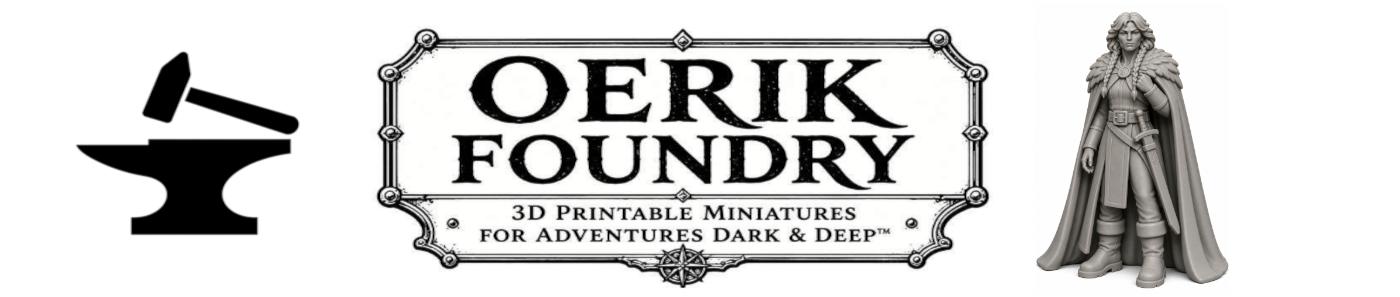
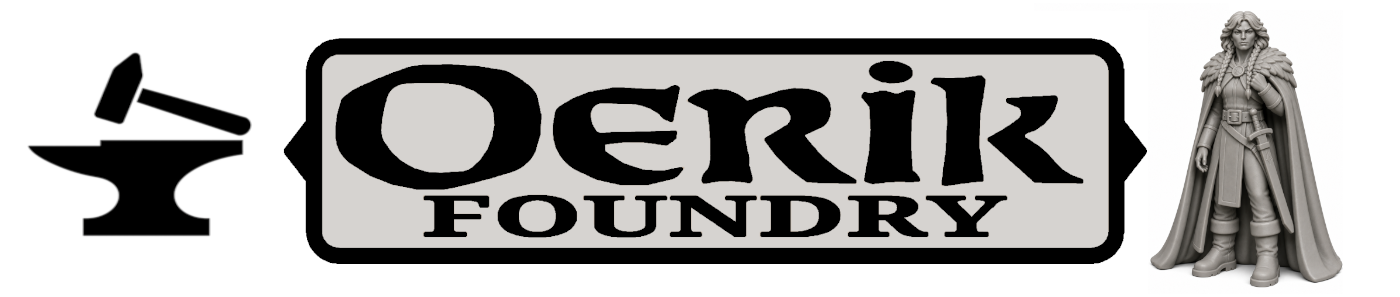
Update Oerik website

diff --git a/themes/oerik/layouts/_default/foundry.html b/themes/oerik/layouts/_default/foundry.html
@@ -1,0 +1,39 @@
+{{ define "main" }}
+
+<div class="standard-page">
+  <article class="standard-page-content">
+
+    <div class="foundry-under-construction"
+         style="max-width:760px; margin:10px auto 30px; text-align:center;">
+
+      <img
+        src="{{ "images/foundry/oerik-foundry-logo.png" | relURL }}"
+        alt="Oerik Foundry"
+        style="display:block; width:100%; max-width:620px; height:auto; margin:0 auto 28px;"
+      >
+
+      <h1 style="margin-bottom:14px;">Oerik Foundry</h1>
+
+      <h2 style="margin-top:0; border-bottom:0; padding-bottom:0;">
+        Under Construction
+      </h2>
+
+      <p>
+        This section of The Oerik Dispatch is still being prepared.
+      </p>
+
+      <p>
+        Check back soon for printable miniatures, 3D printing resources,
+        terrain projects, and new releases from Oerik Foundry.
+      </p>
+
+      <p style="margin-top:32px;">
+        <a class="read-more" href="{{ "" | relURL }}">← Return to The Oerik Dispatch</a>
+      </p>
+
+    </div>
+
+  </article>
+</div>
+
+{{ end }}

diff --git a/themes/oerik/layouts/foundry/section.html b/themes/oerik/layouts/foundry/section.html
@@ -1,0 +1,39 @@
+{{ define "main" }}
+
+<div class="standard-page">
+  <article class="standard-page-content">
+
+    <div class="foundry-under-construction"
+         style="max-width:760px; margin:10px auto 30px; text-align:center;">
+
+      <img
+        src="{{ "images/foundry/oerik-foundry-logo.png" | relURL }}"
+        alt="Oerik Foundry"
+        style="display:block; width:100%; max-width:620px; height:auto; margin:0 auto 28px;"
+      >
+
+      <h1 style="margin-bottom:14px;">Oerik Foundry</h1>
+
+      <h2 style="margin-top:0; border-bottom:0; padding-bottom:0;">
+        Under Construction
+      </h2>
+
+      <p>
+        This section of The Oerik Dispatch is still being prepared.
+      </p>
+
+      <p>
+        Check back soon for printable miniatures, 3D printing resources,
+        terrain projects, and new releases from Oerik Foundry.
+      </p>
+
+      <p style="margin-top:32px;">
+        <a class="read-more" href="{{ "" | relURL }}">← Return to The Oerik Dispatch</a>
+      </p>
+
+    </div>
+
+  </article>
+</div>
+
+{{ end }}

diff --git a/themes/oerik/layouts/_default/greyhawk.html b/themes/oerik/layouts/_default/greyhawk.html
@@ -1,0 +1,39 @@
+{{ define "main" }}
+
+<div class="standard-page">
+  <article class="standard-page-content">
+
+    <div class="greyhawk-under-construction"
+         style="max-width:760px; margin:10px auto 30px; text-align:center;">
+
+      <img
+        src="{{ "images/greyhawk/WorldofGreyhawk.png" | relURL }}"
+        alt="World of Greyhawk Fantasy Setting"
+        style="display:block; width:100%; max-width:700px; height:auto; margin:0 auto 28px;"
+      >
+
+      <h1 style="margin-bottom:14px;">Greyhawk</h1>
+
+      <h2 style="margin-top:0; border-bottom:0; padding-bottom:0;">
+        Under Construction
+      </h2>
+
+      <p>
+        This section of The Oerik Dispatch is still being prepared.
+      </p>
+
+      <p>
+        Check back soon for history, lore, places, peoples, and resources
+        from the World of Greyhawk.
+      </p>
+
+      <p style="margin-top:32px;">
+        <a class="read-more" href="{{ "" | relURL }}">← Return to The Oerik Dispatch</a>
+      </p>
+
+    </div>
+
+  </article>
+</div>
+
+{{ end }}

diff --git a/themes/oerik/layouts/_default/game-rules.html b/themes/oerik/layouts/_default/game-rules.html
@@ -1,0 +1,39 @@
+{{ define "main" }}
+
+<div class="standard-page">
+  <article class="standard-page-content">
+
+    <div class="greyhawk-under-construction"
+         style="max-width:760px; margin:10px auto 30px; text-align:center;">
+
+      <img
+        src="{{ "images/game-rules/ADAD-logo.png" | relURL }}"
+        alt="Adventure Dark and Deep"
+        style="display:block; width:100%; max-width:700px; height:auto; margin:0 auto 28px;"
+      >
+
+      <h1 style="margin-bottom:14px;">Adventure Dark and Deep</h1>
+
+      <h2 style="margin-top:0; border-bottom:0; padding-bottom:0;">
+        Under Construction
+      </h2>
+
+      <p>
+        This section of The Oerik Dispatch is still being prepared.
+      </p>
+
+      <p>
+        Check back soon for information on Adventure Dark and Deep OSR rules
+		by Joseph Bloch.
+      </p>
+
+      <p style="margin-top:32px;">
+        <a class="read-more" href="{{ "" | relURL }}">← Return to The Oerik Dispatch</a>
+      </p>
+
+    </div>
+
+  </article>
+</div>
+
+{{ end }}

diff --git a/content/oerik-under-construction-pages/oerik-under-construction-pages/themes/oerik/layouts/_default/under-construction.html b/content/oerik-under-construction-pages/oerik-under-construction-pages/themes/oerik/layouts/_default/under-construction.html
@@ -1,0 +1,38 @@
+{{ define "main" }}
+
+<div class="standard-page">
+  <article class="standard-page-content">
+
+    <div class="under-construction-page"
+         style="max-width:720px; margin:20px auto 40px; text-align:center;">
+
+      <div aria-hidden="true"
+           style="font-family:Georgia, 'Times New Roman', serif; font-size:58px; line-height:1; margin-bottom:18px;">
+        ⚒
+      </div>
+
+      <h1 style="margin-bottom:18px;">{{ .Title }}</h1>
+
+      <h2 style="margin-top:0; border-bottom:0; padding-bottom:0;">
+        Under Construction
+      </h2>
+
+      <p>
+        This section of The Oerik Dispatch is still being prepared.
+      </p>
+
+      <p>
+        Check back soon for new material from the World of Greyhawk,
+        OERIK Magazine, and Oerik Foundry.
+      </p>
+
+      <p style="margin-top:32px;">
+        <a class="read-more" href="{{ "" | relURL }}">← Return to The Oerik Dispatch</a>
+      </p>
+
+    </div>
+
+  </article>
+</div>
+
+{{ end }}

diff --git a/themes/oerik/layouts/_default/under-construction.html b/themes/oerik/layouts/_default/under-construction.html
@@ -1,0 +1,38 @@
+{{ define "main" }}
+
+<div class="standard-page">
+  <article class="standard-page-content">
+
+    <div class="under-construction-page"
+         style="max-width:720px; margin:20px auto 40px; text-align:center;">
+
+      <div aria-hidden="true"
+           style="font-family:Georgia, 'Times New Roman', serif; font-size:58px; line-height:1; margin-bottom:18px;">
+        ⚒
+      </div>
+
+      <h1 style="margin-bottom:18px;">{{ .Title }}</h1>
+
+      <h2 style="margin-top:0; border-bottom:0; padding-bottom:0;">
+        Under Construction
+      </h2>
+
+      <p>
+        This section of The Oerik Dispatch is still being prepared.
+      </p>
+
+      <p>
+        Check back soon for new material from the World of Greyhawk,
+        OERIK Magazine, and Oerik Foundry.
+      </p>
+
+      <p style="margin-top:32px;">
+        <a class="read-more" href="{{ "" | relURL }}">← Return to The Oerik Dispatch</a>
+      </p>
+
+    </div>
+
+  </article>
+</div>
+
+{{ end }}

diff --git a/content/oerik-under-construction-pages/oerik-under-construction-pages/content/foundry/_index.md b/content/oerik-under-construction-pages/oerik-under-construction-pages/content/foundry/_index.md
@@ -1,0 +1,4 @@
+---
+title: "Oerik Foundry"
+layout: "under-construction"
+---

diff --git a/content/oerik-under-construction-pages/oerik-under-construction-pages/content/game-rules/_index.md b/content/oerik-under-construction-pages/oerik-under-construction-pages/content/game-rules/_index.md
@@ -1,0 +1,4 @@
+---
+title: "Game Rules"
+layout: "under-construction"
+---

diff --git a/content/oerik-under-construction-pages/oerik-under-construction-pages/content/greyhawk/_index.md b/content/oerik-under-construction-pages/oerik-under-construction-pages/content/greyhawk/_index.md
@@ -1,0 +1,4 @@
+---
+title: "Greyhawk"
+layout: "under-construction"
+---

diff --git a/content/foundry/_index.md b/content/foundry/_index.md
@@ -1,0 +1,4 @@
+---
+title: "Oerik Foundry"
+layout: "foundry"
+---

diff --git a/content/game-rules/_index.md b/content/game-rules/_index.md
@@ -1,0 +1,4 @@
+---
+title: "Game Rules"
+layout: "game-rules"
+---

diff --git a/content/greyhawk/_index.md b/content/greyhawk/_index.md
@@ -1,0 +1,4 @@
+---
+title: "Greyhawk"
+layout: "greyhawk"
+---
